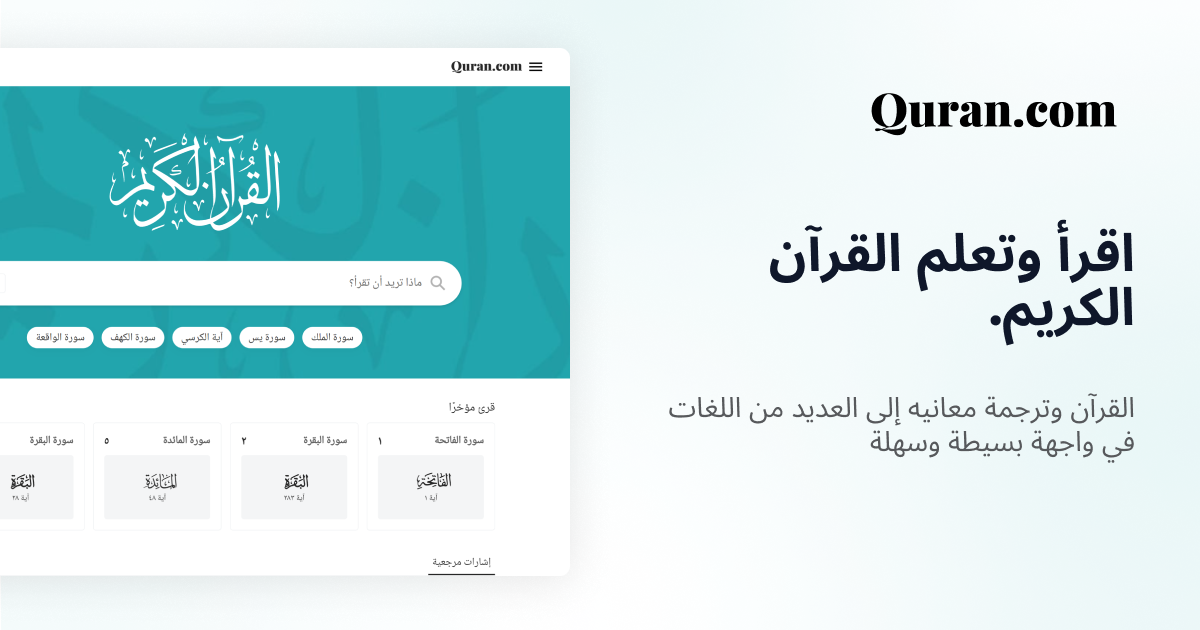
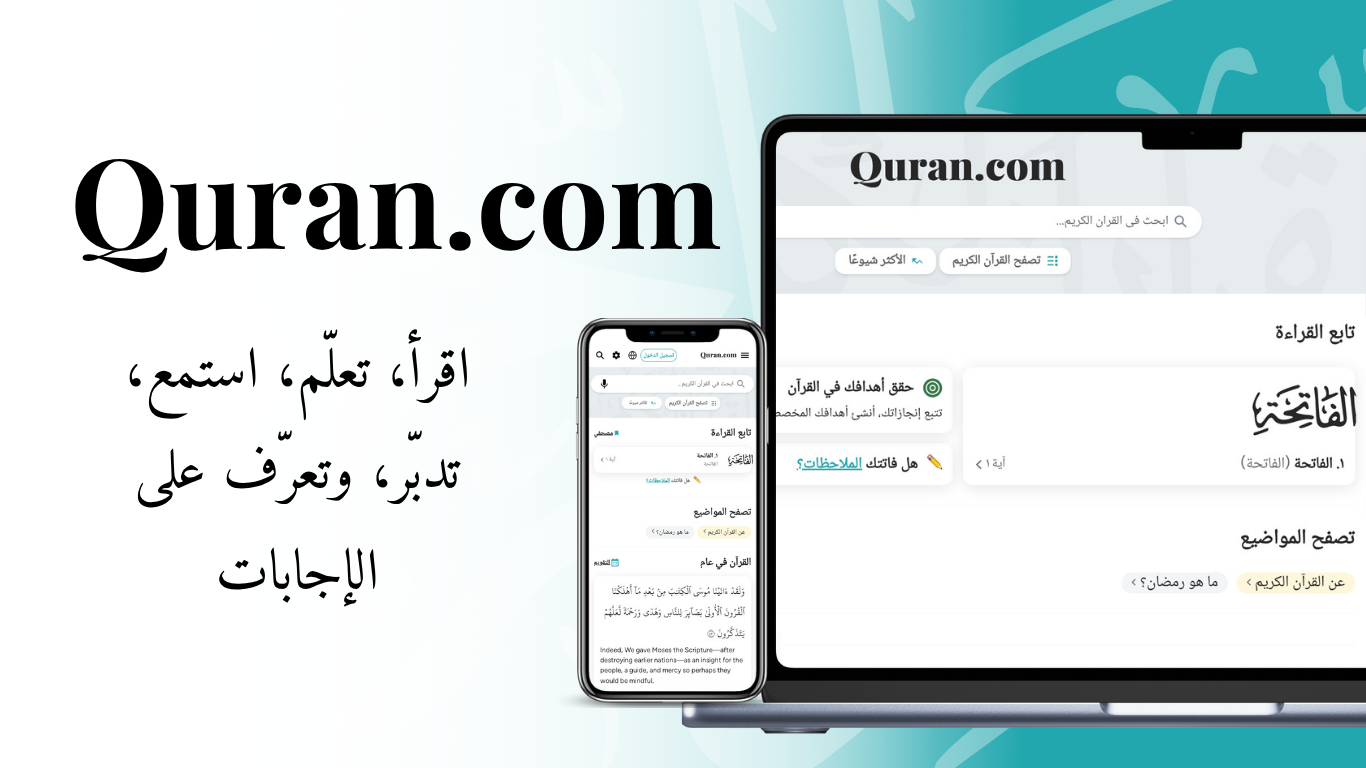
- add OG premade images for all locale - map /api/og?lang= correctly

diff --git a/src/pages/api/og/index.tsx b/src/pages/api/og/index.tsx
@@ -1,9 +1,29 @@
-import type { PageConfig } from 'next/types';
+import { NextRequest } from "next/server";
+import type { PageConfig } from "next/types";
 
 export const config: PageConfig = {
-  runtime: 'edge',
+    runtime: "edge",
 };
 
-export default async function handler() {
-  return fetch(new URL('/public/premade/og-en.png', import.meta.url),);
+const LANG_TO_FILE: Record<string, string> = {
+    ar: "og-ar.png",
+    bn: "og-bn.png",
+    en: "og-en.png",
+    es: "og-es.png",
+    fa: "og-fa.png",
+    fr: "og-fr.png",
+    id: "og-id.png",
+    ms: "og-ms.png",
+    nl: "og-nl.png",
+    sw: "og-sw.png",
+    tr: "og-tr.png",
+    ur: "og-ur.png",
+};
+
+export default async function handler(req: NextRequest) {
+    const lang = req.nextUrl.searchParams.get("lang")?.toLowerCase() || "en";
+    const file = LANG_TO_FILE[lang] || LANG_TO_FILE.en;
+
+    const assetUrl = new URL(`/premade/${file}`, req.url);
+    return fetch(assetUrl);
 }
